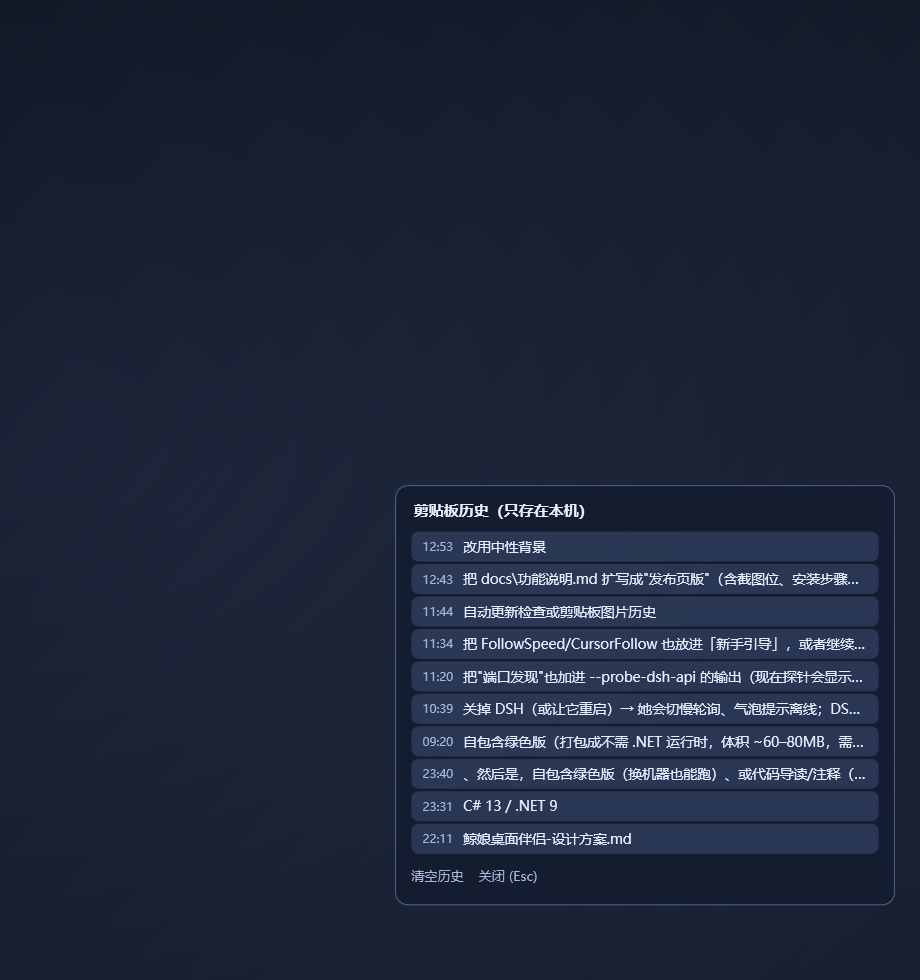
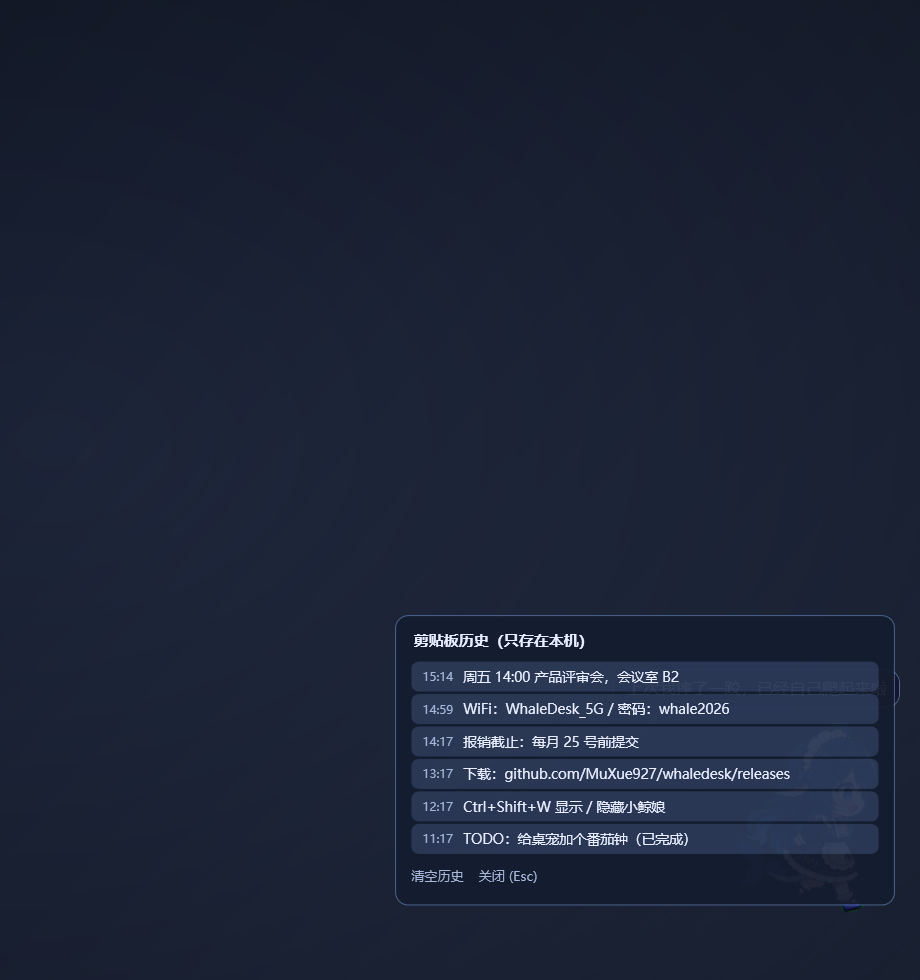
docs: remove machine-specific data from manuals and sanitize clipboard screenshot

Changed region(s): [[0.4261, 0.4898, 0.9739, 0.8878]]

diff --git a/docs/互动说明书.md b/docs/互动说明书.md
@@ -339,14 +339,14 @@
 - 每个目录**单独限时测量**，超时的显示 **`≥`（至少这么大）**，不会卡住
 - **只测量、绝不删除**；点一下就用资源管理器打开那个目录
 - 结果缓存 10 分钟，面板重新打开可刷新
-- 首次实测（Windows 11 测试机）：`AppData\Local 33.4 GB`、`AppData\Roaming 19.9 GB`、`Program Files 21.9 GB`、`Windows 10.0 GB` —— **空间主要是 AppData 吃掉的**
+- 以一台普通测试机为例：`AppData\Local`、`AppData\Roaming`、`Program Files` 往往各占十几到几十 GB —— **空间主要是 AppData 吃掉的**
 
 ### 今日 token / 成本
-监控面板里一行：`今日 tokens 1.2M（入 69.5K · 出 30.4K · 缓存 113.3M）· 215 次 · 成本 ≈4.18`
+监控面板里一行（数值为示例）：`今日 tokens 1.2M（入 69.5K · 出 30.4K · 缓存 113.3M）· 215 次 · 成本 ≈4.18`
 数据来自 `~/.dsh/dsh-usage/usage-ledger.json`（`dsh-usage` 插件的账本），本机读取、不外传。
 ### 补充（2026-10-17 P2 收尾）
 
-- **成本币种**：面板显示 `≈¥4.84`，与 DSH 里的一致。
+- **成本币种**：面板显示 `≈¥4.84`（示例），与 DSH 面板一致。
 - **监控面板可以滚动了**：内容高度超过约 340 DIP 时出现**细的半透明滚动条**，卡片不会再把小鲸娘挤出屏幕（这是结构性修复：卡片限高 = 工作区高度的一半左右，内部滚动）。
 - **下载完成提醒**（默认开）：`%USERPROFILE%\Downloads` 里的文件**大小稳定 4 秒以上且超过 1 MB** 才算下载完成，她会说「下载完成：xxx.iso（3.2 GB）」并弹托盘气泡。菜单可关。
 - **DSH 连接不稳定提示**：2 分钟内失败 5 次以上 → 一次温和提示「连 DSH 有点不稳定，我会继续重试」（10 分钟冷却，一次成功即清零）。
@@ -407,7 +407,7 @@
 - 面板底部：**「+ 文件夹」** → 选任意文件夹 → 出现在列表里，点一下就在资源管理器打开该目录（这就是"自定义文件夹位置"）
 - **「+ 程序」** → 选 exe / cmd / bat / 快捷方式 → 加入（起始目录自动设为程序所在目录）
 - 每行右侧 **×** → 从列表移除
-- **PowerShell 的起始目录**：默认改成你的用户目录 `C:\Users\whxnt`（不再是程序目录）；想改别的路径，点「编辑配置」手改 `WorkingDirectory` 即可：
+- **PowerShell 的起始目录**：默认改成你的用户目录 `%USERPROFILE%`（不再是程序目录）；想改别的路径，点「编辑配置」手改 `WorkingDirectory` 即可：
   ```json
   { "Name": "PowerShell", "Target": "powershell.exe", "Arguments": null,
     "WorkingDirectory": "D:\\my\\work" }
@@ -440,7 +440,7 @@
    → 她会自己复制，重名时自动变成 `文件名 (2).txt`，**不会弹任何 Windows 对话框**
 
 **快捷启动的旧配置**
-旧版配置文件里的 PowerShell 没有起始目录，现在会自动补成你的用户目录 `C:\Users\whxnt`；想改就在「编辑配置」里改 `WorkingDirectory`。
+旧版配置文件里的 PowerShell 没有起始目录，现在会自动补成你的用户目录 `%USERPROFILE%`；想改就在「编辑配置」里改 `WorkingDirectory`。
 ---
 
 ## 十四、最占空间目录的「内容分析」（v0.11.0）
